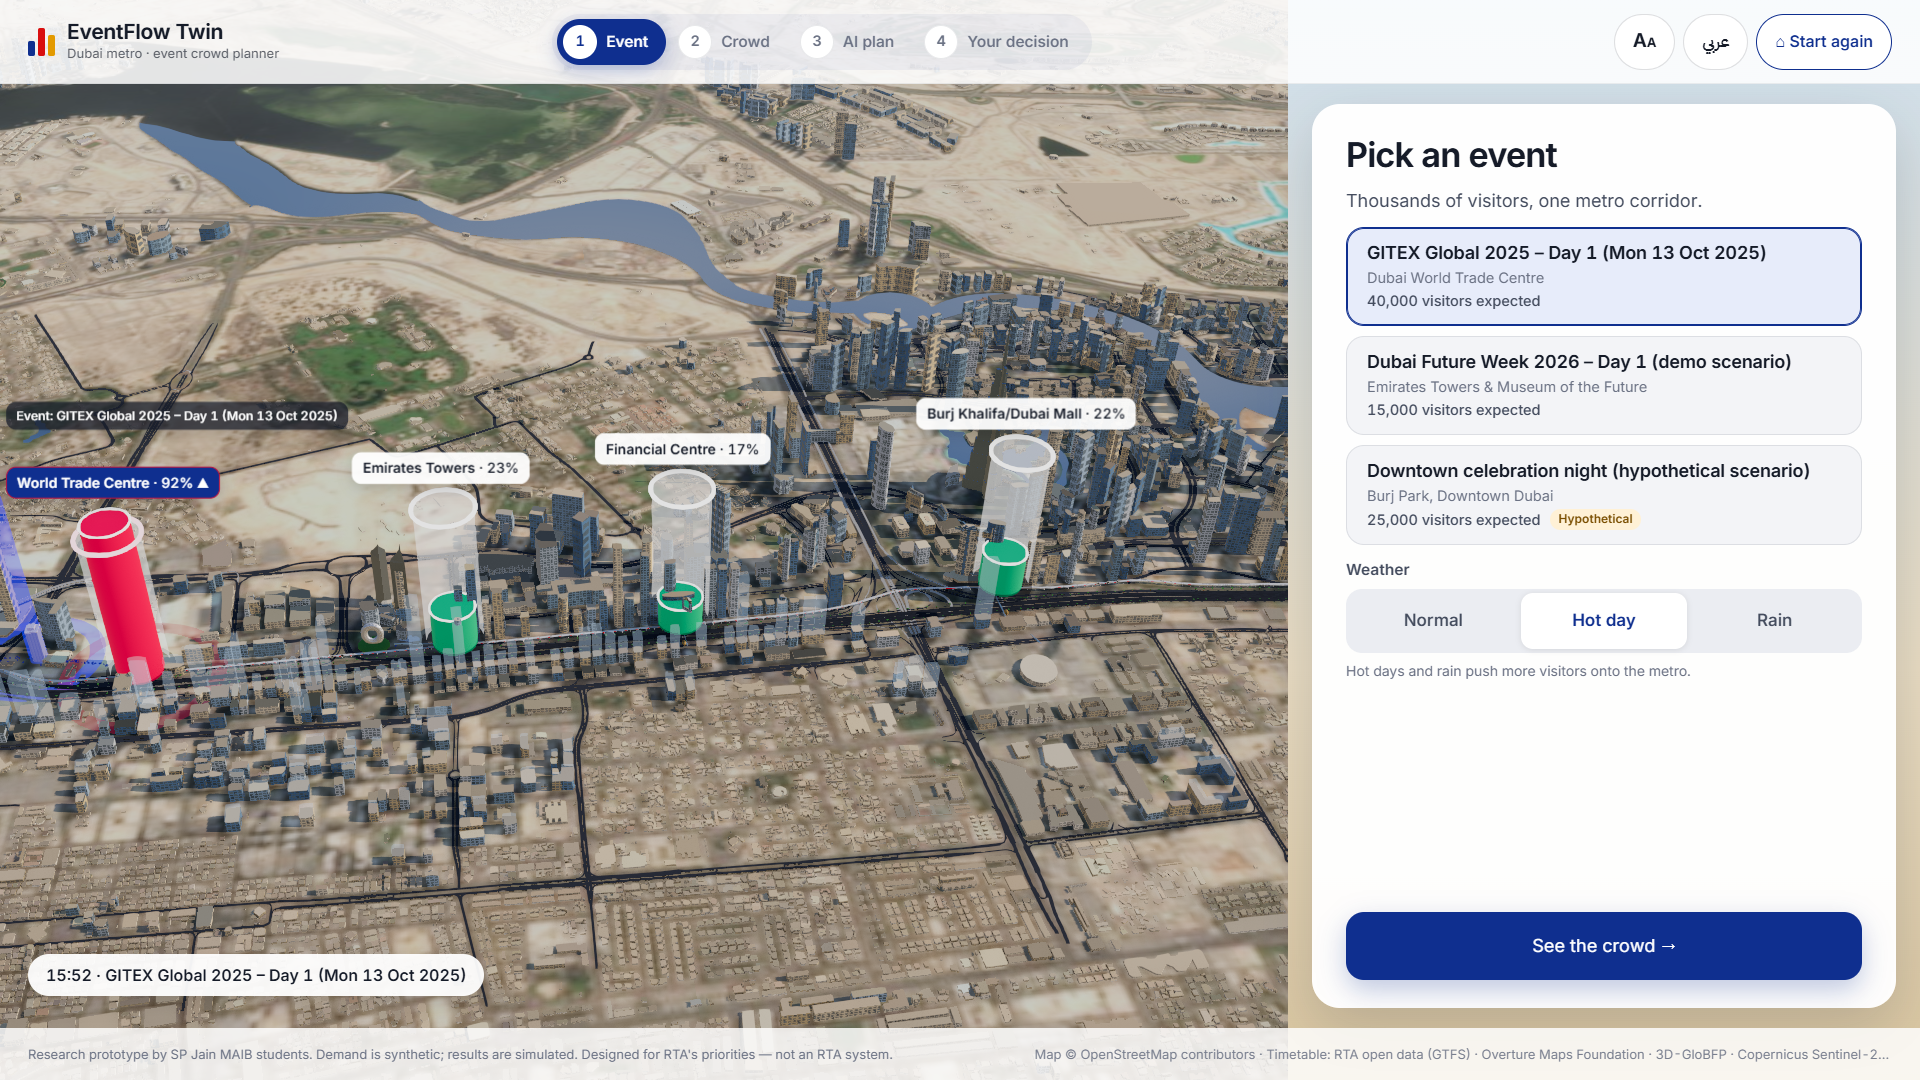
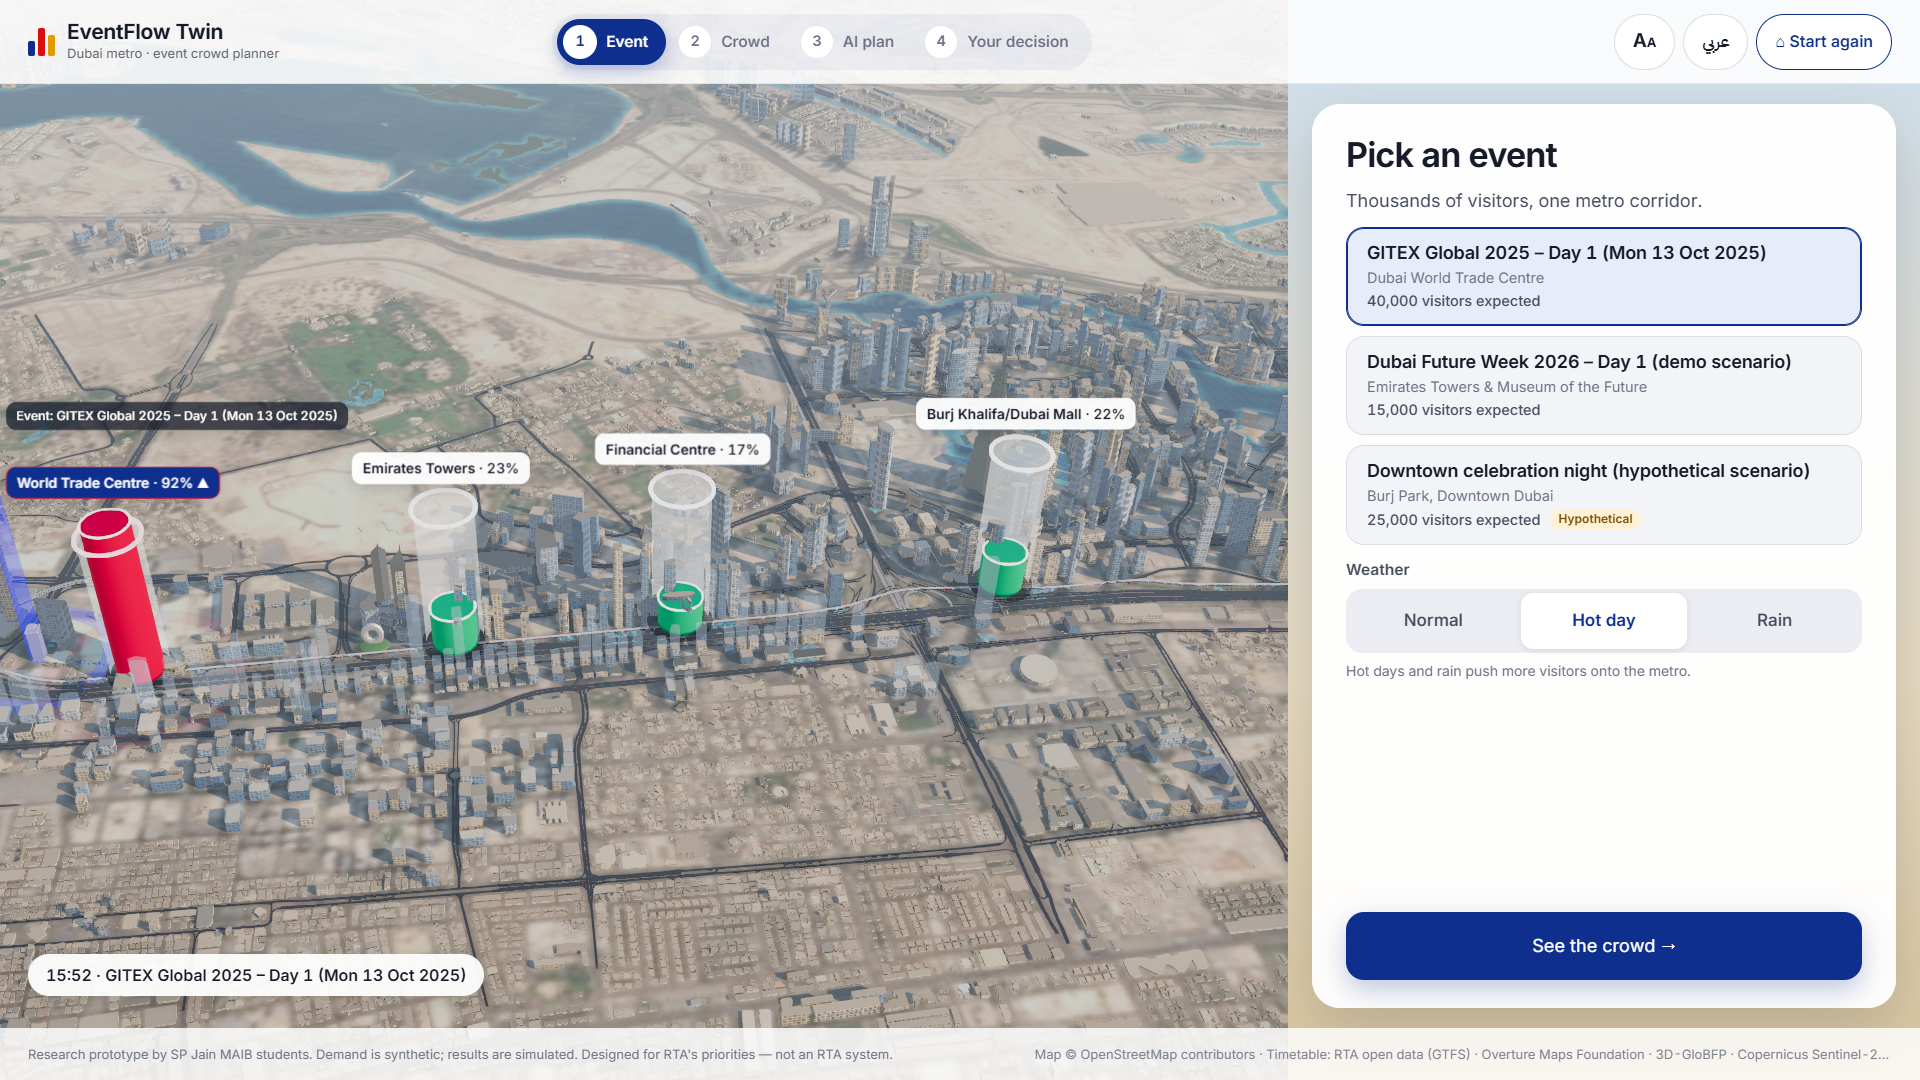
realism R2: measured on mains (v2 60.0 / 60.0 fps at tier 0); full UI suite 25 passed, kiosk on v2 4 passed

diff --git a/docs/metrics.md b/docs/metrics.md
@@ -4,16 +4,16 @@ Every number below is copied from a file in `eval/results/` or from the baked sc
 nothing is typed by hand. Regenerate: `make ui-test`, then `python scripts/ui_metrics.py`.
 
 ## 3D twin performance
-Source: `eval/results/ui/fps.json` (2026-11-12T16:00:00.775Z), Playwright → Chrome, `ANGLE (Intel, Intel(R) Arc(TM) Graphics (0x00007D55) Direct3D11 vs_5_0 ps_5_0, D3D11)`.
+Source: `eval/results/ui/fps.json` (2026-11-12T16:44:03.937Z), Playwright → Chrome, `ANGLE (Intel, Intel(R) Arc(TM) Graphics (0x00007D55) Direct3D11 vs_5_0 ps_5_0, D3D11)`.
 
 | Measure | Value |
 |---|---|
 | Viewport | 1920x1080 (3D canvas 1230×771, device pixel ratio 1) |
 | Layers | all on, clock playing |
 | Build | next dev |
-| Average fps (5 camera presets × 5 s) | **56.3** |
-| Minimum 1-second sample | 55.2 |
-| Per camera | overview 56.5, close 56.2, top 56.3, fly 56.4, orbit 56.2 |
+| Average fps (5 camera presets × 5 s) | **59.8** |
+| Minimum 1-second sample | 58 |
+| Per camera | overview 58.9, close 60.1, top 60, fly 60, orbit 60 |
 
 Budget ≥ 50 fps: **met** on this machine. The browser caps at the display refresh rate (60 Hz), so 60 means
 "at the cap". Not measured: the exhibit's touch monitor at its native resolution; a 2-hour soak.
@@ -54,7 +54,7 @@ Crash recovery (test "crash recovery…"): with the API blocked the banner appea
 the health check every 4 s clears the banner when the API returns.
 
 ## Offline
-Source: `eval/results/ui/network.json` (2026-11-12T15:58:30.780Z).
+Source: `eval/results/ui/network.json` (2026-11-12T16:42:25.009Z).
 Requests to any host other than localhost during load, an agent plan and a language switch: **0**.
 Fonts (Readex Pro, OFL) are files in the repo; the map is baked into `apps/web/public/geo/`.
 With the API blocked the app starts from the saved snapshot (`apps/web/public/cache/`) and says so (test "API down").
@@ -82,7 +82,7 @@ Baked by `python scripts/fetch_realism_data.py` (downloads to `data/raw/realism/
 | Building heights, ESTIMATED | Seeded estimate from footprint area and type (scripts/build_scene.py) | n/a (not data) | 2026-11-12 | 23179 buildings (31.7 %) |
 | Ground image | Copernicus Sentinel-2 L2A, median of 8 near-cloudless dates 2025-10-14 – 2025-11-28, via Microsoft Planetary Computer; colour-graded | Contains modified Copernicus Sentinel data 2025 (free and open) | 2025-10-13/2025-11-30 | 45 scenes, 10 m |
 | Land-cover masks (vegetation, water, built-up, bare) | ESA WorldCover 10 m 2021 v200 | CC BY 4.0 (© ESA WorldCover project 2021) | 2021 | 16 chunk masks + 1 overview |
-| Water outline | Overture Maps Foundation, base theme (water), release 2026-10-21.0 | ODbL 1.0 | 2026-10-21 | 2899 polygons |
+| Water outline | Overture Maps Foundation, base theme (water), release 2026-10-21.0 | ODbL 1.0 | 2026-10-21 | 361 polygons |
 | Terrain height | Copernicus DEM GLO-30 (AWS Open Data), resampled to 78 m | © DLR e.V. 2010–2014 and © Airbus Defence and Space GmbH 2014–2018, provided under COPERNICUS by the European Union and ESA; free licence | 2011–2015 | 1 texture, -16–82 m |
 | Ground ambient occlusion | Baked from the footprints and heights above (scripts/realism_bake.py) | derived | 2026-11-12 | 16 chunk textures + corridor |
 
@@ -113,7 +113,14 @@ Size: `apps/web/public/geo` 15.0 MB (limit 60), largest file `ground.png` 3.13 M
 | Before, corridor scene (`before_fps.json`, 2026-11-12T15:03:53.507Z) | 60 | 60 |
 | After, `?scene=v2` (`after_fps.json`, 2026-11-12T15:05:22.412Z) | 60 | 60 |
 
-`?scene=v2` with every layer on and the clock playing (`fps_v2.json`, 2026-11-12T15:59:18.579Z, test "realism ring…"): average **56.4** fps, minimum 1-second sample 55.6.
+R2 (light, haze, ground and sea): 15 before/after pairs plus an AgX set in `eval/results/ui/realism_r2/`, clock paused.
+
+| | Average fps | Minimum | Quality tier at the end |
+|---|---|---|---|
+| Before, R1 scene (`before_fps.json`, 2026-11-12T16:07:20.181Z) | 43.3 | 41.1 | 0 |
+| After, R2 scene (`after_fps.json`, 2026-11-12T16:27:55.342Z) | 59.9 | 59 | 0 |
+
+`?scene=v2` with every layer on and the clock playing (`fps_v2.json`, 2026-11-12T16:43:21.209Z, test "realism ring…"): average **60** fps, minimum 1-second sample 60.
 
 ## UI tests
 `apps/web/tests/ui.spec.ts` — 21 Playwright tests (EN/AR, day/night, kiosk hit targets, demo flow, guided demo,
